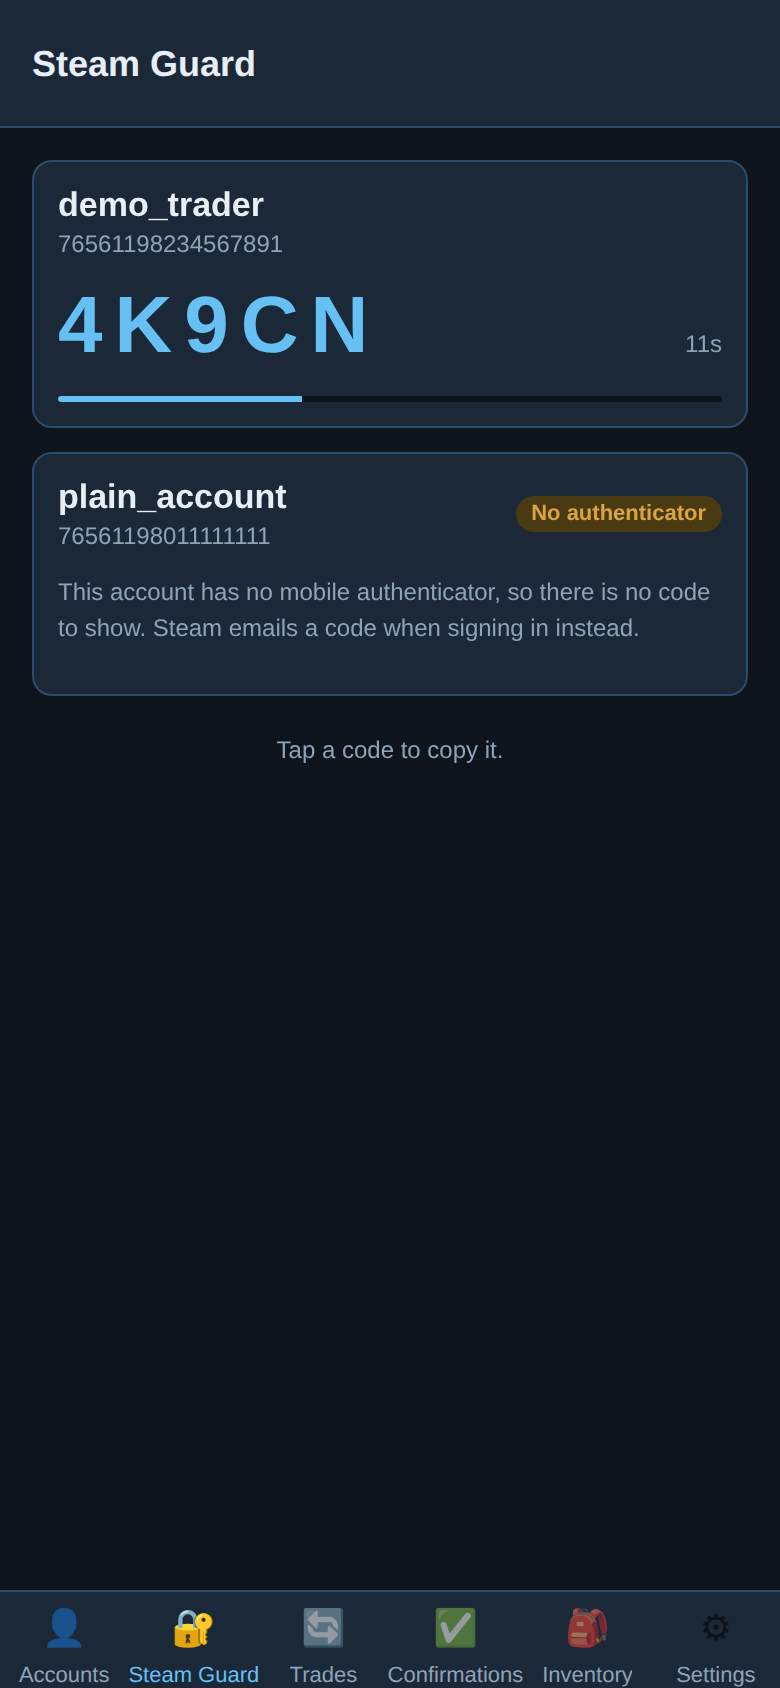
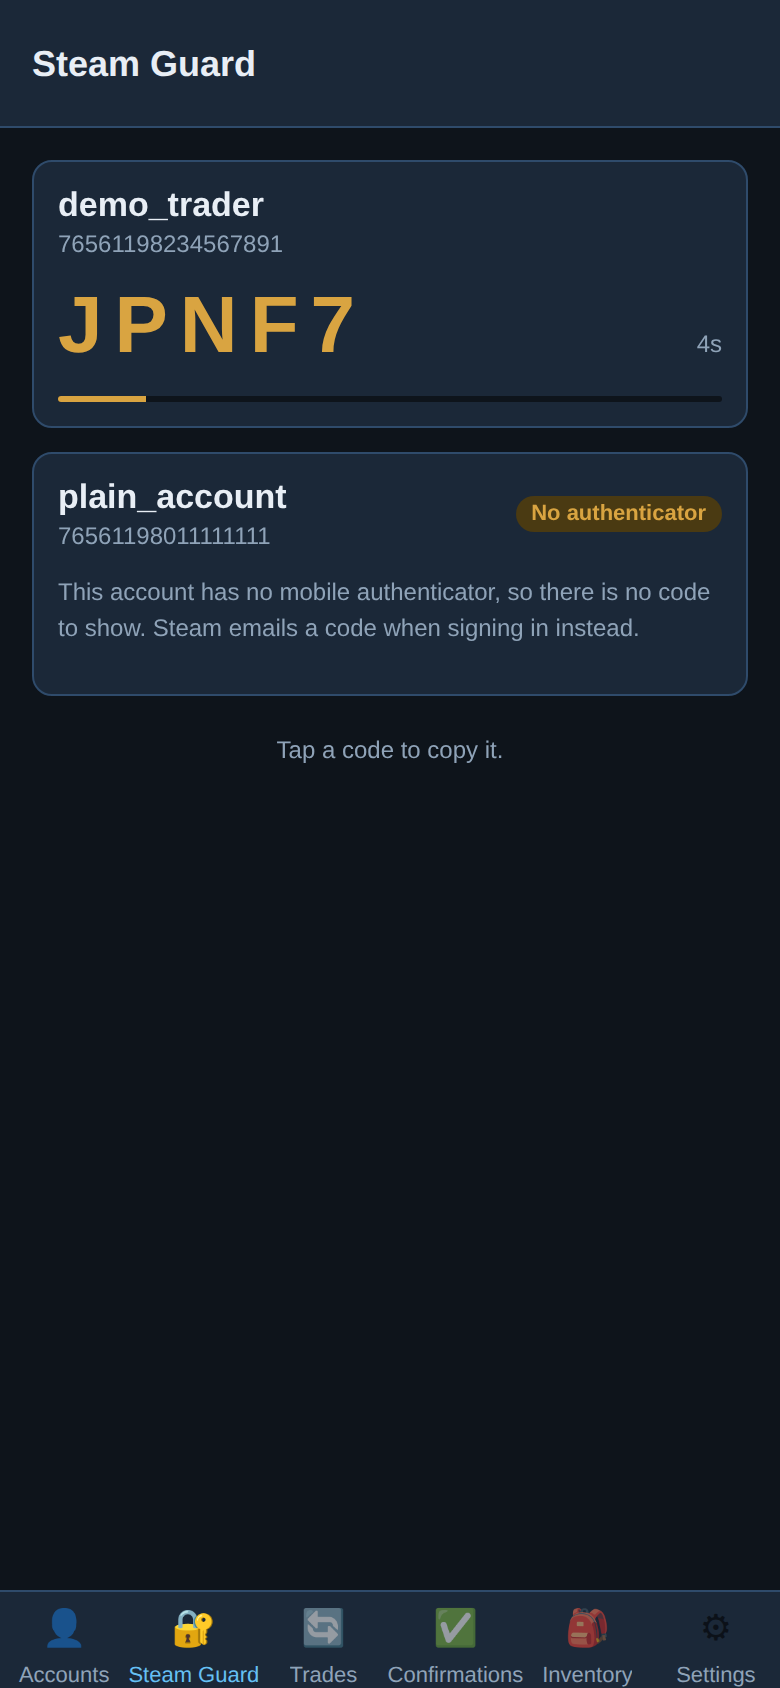
Fix broken JSX from the previous commit
The previous commit left a stray ternary arm, so AccountsScreen did not
parse and the app would not bundle. My verification chain let it through:
the lint failure short-circuited the test run, but the commit ran as a
separate command and pushed anyway.

Claude-Session: https://claude.ai/code/session_01A167Z1AH9MiUd2tGkdLWRp

Changed region(s): [[0.0615, 0.154, 0.4615, 0.2464], [0.8923, 0.1848, 0.9231, 0.2156]]

diff --git a/src/screens/AccountsScreen.js b/src/screens/AccountsScreen.js
@@ -155,7 +155,7 @@ export default function AccountsScreen({ navigation }) {
 
             {capabilities.canSendTrades ? null : (
               <Text style={styles.limitNote}>{capabilities.limitsSummary}</Text>
-            ) : null}
+            )}
 
             <View style={styles.actions}>
               <Button
